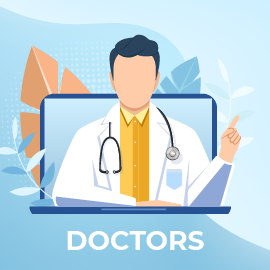
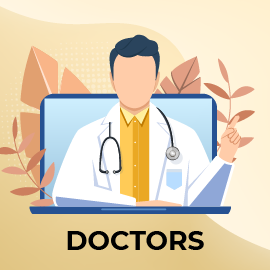
Update Welcome Screen and other file clean ups

diff --git a/src/screens/DViewProfile.java b/src/screens/DViewProfile.java
@@ -5,23 +5,16 @@ import javafx.event.EventHandler;
 import javafx.geometry.Insets;
 import javafx.geometry.Pos;
 import javafx.scene.control.Button;
-import javafx.scene.control.MenuBar;
 import javafx.scene.control.ScrollPane;
-import javafx.scene.control.Separator;
 import javafx.scene.layout.HBox;
 import javafx.scene.layout.VBox;
 import javafx.scene.text.Font;
 import javafx.scene.text.Text;
 import models.Doctor;
-import models.HealthRecord;
 import providers.DoctorProvider;
-import screens.components.DoctorsMenuBar;
 import services.NavigationService;
 
 public class DViewProfile {
-  private HealthRecord record;
-  private String patientName;
-  private String patientId;
 
   public VBox display() {
     VBox root = new VBox();

diff --git a/src/providers/DoctorProvider.java b/src/providers/DoctorProvider.java
@@ -174,8 +174,8 @@ public final class DoctorProvider {
               resultSet.getString(4), resultSet.getString(5), resultSet.getInt(6), resultSet.getString(7),
               resultSet.getString(8), resultSet.getString(9));
           setUser(du);
-          DoctorDashboard dds = new DoctorDashboard();
-          NavigationService.getInstance().clearAllAndPush(dds.display());
+          // DoctorDashboard dds = new DoctorDashboard();
+          // NavigationService.getInstance().clearAllAndPush(dds.display());
           return true;
         }
       }

diff --git a/src/screens/DEditProfile.java b/src/screens/DEditProfile.java
@@ -8,7 +8,6 @@ import javafx.geometry.Insets;
 import javafx.geometry.Pos;
 import javafx.scene.control.Alert;
 import javafx.scene.control.Button;
-import javafx.scene.control.PasswordField;
 import javafx.scene.control.RadioButton;
 import javafx.scene.control.ScrollPane;
 import javafx.scene.control.Separator;
